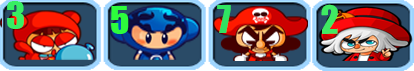
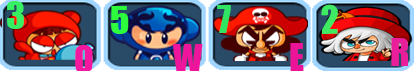
UI개선
UI개선

diff --git a/게임/boy.py b/게임/boy.py
@@ -21,14 +21,14 @@ ACTION_PER_TIME = 1.0 / TIME_PER_ACTION
 FRAMES_PER_ACTION = 8
 
 # Boy Event
-RIGHT_DOWN, LEFT_DOWN, RIGHT_UP, LEFT_UP, SPACE = range(5)
+PLAYER1, PLAYER2, PLAYER3, PLAYER4, ITEM = range(5)
 
 key_event_table = {
-    (SDL_KEYDOWN, SDLK_RIGHT): RIGHT_DOWN,
-    (SDL_KEYDOWN, SDLK_LEFT): LEFT_DOWN,
-    (SDL_KEYUP, SDLK_RIGHT): RIGHT_UP,
-    (SDL_KEYUP, SDLK_LEFT): LEFT_UP,
-    (SDL_KEYDOWN, SDLK_SPACE): SPACE
+    (SDL_KEYDOWN, SDLK_q): PLAYER1,
+    (SDL_KEYDOWN, SDLK_w): PLAYER2,
+    (SDL_KEYUP, SDLK_e): PLAYER3,
+    (SDL_KEYUP, SDLK_r): PLAYER4,
+    (SDL_KEYDOWN, SDLK_SPACE): ITEM
 }
 
 # Boy States
@@ -37,7 +37,7 @@ class IdleState:
 
     @staticmethod
     def enter(boy, event):
-        if event == RIGHT_DOWN:
+        if event == PLAYER1:
             boy.velocity += RUN_SPEED_PPS
         elif event == LEFT_DOWN:
             boy.velocity -= RUN_SPEED_PPS
@@ -71,7 +71,7 @@ class RunState:
 
     @staticmethod
     def enter(boy, event):
-        if event == RIGHT_DOWN:
+        if event == PLA:
             boy.velocity += RUN_SPEED_PPS
         elif event == LEFT_DOWN:
             boy.velocity -= RUN_SPEED_PPS

diff --git a/게임/manabar.py b/게임/manabar.py
@@ -3,9 +3,10 @@ from pico2d import *
 class Manabar:
     def __init__(self):
         self.image = load_image('mana_bar.png')
+        self.font = load_font('ENCR10B.TTF', 50)
         self.x = 0
     def update(self):
-        self.x += 1
+        self.x = get_time()
 
     def do(self):
         pass
@@ -14,10 +15,19 @@ class Manabar:
 
 
     def draw(self):
-        self.image.clip_draw(0, 20, 400, 70, 400, 40)
-        if self.x <380:
-            self.image.clip_draw(0, 0, self.x*1, 20, 600, 40)
+        self.image.clip_draw(0, 20, 400, 70, 500, 40)
+        if (self.x*19) < 380:
+            self.image.clip_draw(0, 0, int(self.x*10), 20, 400, 40)
 
-        if self. x>= 380:
-            self.image.clip_draw(0, 0, 380, 20, 700, 40)
+        if (self.x*19) >= 380:
+            self.image.clip_draw(0, 0, 380, 20, 500, 40)
+
+        bar_num = int(self.x/2)
+        if bar_num <10:
+            self.font.draw(230, 40, '%3.2i' % bar_num, (0, 200, 0))
+        else:
+            bar_num = 10
+            self.font.draw(230, 40, '%3.2i' % bar_num, (0, 200, 0))
+            # 마나바 10개에 걸리는 충전시간 20초로 설정
+
 
